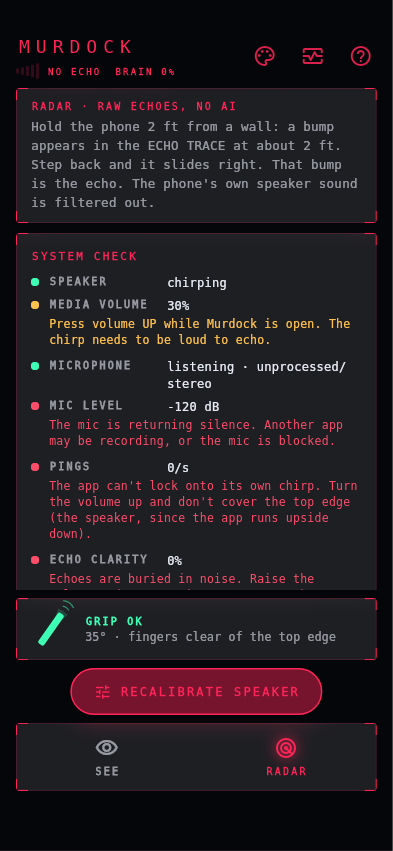
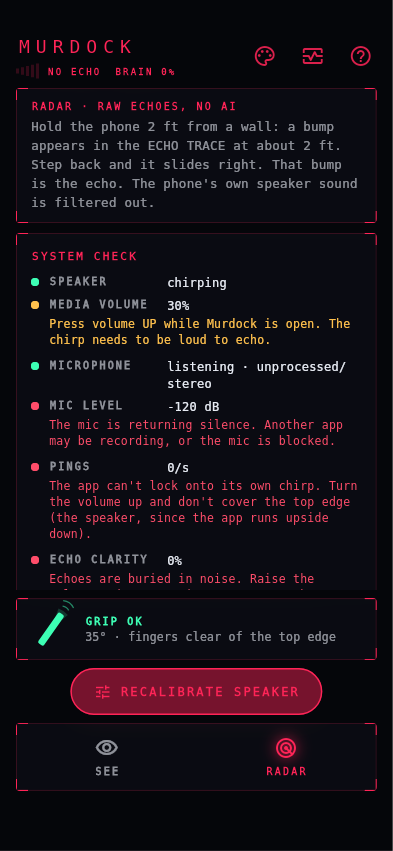
FINISH LEARNING mode
- Learning strip shows FINISH LEARNING whenever training is queued (also with
  camera assist off). It stops the speaker, mic and camera; the trainer then
  takes the brain thread in 250 ms bursts with no gaps for live inference until
  the queue is empty, saves, and the screen shows progress, steps/s and time
  left. RESUME (or STOP AND RESUME) restarts sonar and camera
- Top bar reads SONAR OFF while finishing; tab bar hidden
- Panels use dark smoked glass so text stays readable over the echo picture
- Screenshots: queued learning strip, finishing screen

Claude-Session: https://claude.ai/code/session_01FaaL1WKpQiBqvyPWN8qiJK

Changed region(s): [[0.1832, 0.8249, 0.8244, 0.886], [0.0916, 0.7027, 0.8244, 0.7333], [0.0611, 0.275, 0.0916, 0.3055]]

diff --git a/lib/home_page.dart b/lib/home_page.dart
@@ -67,6 +67,10 @@ class _HomePageState extends State<HomePage> with WidgetsBindingObserver {
   String _teacherBackend = '';
   bool _lastFrameLearned = false;
 
+  // FINISH LEARNING: sonar + camera off, the phone works through the training queue.
+  bool _finishing = false;
+  int _finishTotal = 0;
+
   // Grip: live tilt from the motion sensor, and the average tilt while learning (saved).
   double _tilt = kIdealTilt;
   double _roll = 0;
@@ -149,6 +153,7 @@ class _HomePageState extends State<HomePage> with WidgetsBindingObserver {
   void didChangeAppLifecycleState(AppLifecycleState state) {
     // The native side stops the speaker when the app is backgrounded; resume it here.
     if (state == AppLifecycleState.resumed) {
+      if (_finishing) return; // stay quiet until the user resumes
       _startSonar().then((_) => _syncCamera());
     } else if (state == AppLifecycleState.paused) {
       _stopCamera();
@@ -173,7 +178,7 @@ class _HomePageState extends State<HomePage> with WidgetsBindingObserver {
   // ───────────────────────────── camera + learning ─────────────────────────────
 
   /// The camera runs in SEE while camera assist is on (it also feeds continuous learning).
-  bool get _wantCamera => (_status?.teacherReady ?? false) && _mode == Mode.see && _assist;
+  bool get _wantCamera => !_finishing && (_status?.teacherReady ?? false) && _mode == Mode.see && _assist;
 
   Future<void> _syncCamera() async {
     if (!mounted) return;
@@ -274,8 +279,8 @@ class _HomePageState extends State<HomePage> with WidgetsBindingObserver {
         body: SafeArea(
           child: Column(children: [
             _topBar(),
-            Expanded(child: _blocker != null ? _centerCard(_blocker!) : _body()),
-            _navBar(),
+            Expanded(child: _blocker != null ? _centerCard(_blocker!) : _finishing ? _finishScreen() : _body()),
+            if (!_finishing) _navBar(),
           ]),
         ),
       );
@@ -284,8 +289,16 @@ class _HomePageState extends State<HomePage> with WidgetsBindingObserver {
 
   Widget _topBar() {
     final p = _palette;
-    final signal = _signal;
-    final signalText = signal > 0.6 ? 'ECHO STRONG' : signal > 0.3 ? 'ECHO OK' : signal > 0.08 ? 'ECHO WEAK' : 'NO ECHO';
+    final signal = _finishing ? 0.0 : _signal;
+    final signalText = _finishing
+        ? 'SONAR OFF'
+        : signal > 0.6
+            ? 'ECHO STRONG'
+            : signal > 0.3
+                ? 'ECHO OK'
+                : signal > 0.08
+                    ? 'ECHO WEAK'
+                    : 'NO ECHO';
     return Padding(
       padding: const EdgeInsets.fromLTRB(16, 8, 8, 0),
       child: Row(children: [
@@ -435,7 +448,7 @@ class _HomePageState extends State<HomePage> with WidgetsBindingObserver {
         right: 16,
         bottom: 8,
         child: Column(mainAxisSize: MainAxisSize.min, children: [
-          if (assisting) _learningStrip(),
+          if (assisting || (_status?.pendingSteps ?? 0) > 0) _learningStrip(),
           const SizedBox(height: 8),
           Row(children: [
             if (teacherReady)
@@ -539,7 +552,96 @@ class _HomePageState extends State<HomePage> with WidgetsBindingObserver {
           Text('With lights on, walk slowly past walls, doors, furniture and people.',
               style: Hud.body.copyWith(fontSize: 11)),
         ],
+        if (pending > 0) ...[
+          const SizedBox(height: 8),
+          Align(
+            alignment: Alignment.centerRight,
+            child: _chip(Icons.hourglass_bottom, 'FINISH LEARNING', _startFinish),
+          ),
+        ],
       ]),
+    );
+  }
+
+  // ───────────────────────────── finish learning ─────────────────────────────
+
+  Future<void> _startFinish() async {
+    final pending = _status?.pendingSteps ?? 0;
+    if (pending == 0) {
+      _toast('Nothing queued: it has caught up.');
+      return;
+    }
+    setState(() {
+      _finishing = true;
+      _finishTotal = pending;
+      _showCamera = false;
+    });
+    await _stopCamera();
+    await _sonar.finishLearning();
+  }
+
+  Future<void> _endFinish() async {
+    await _sonar.endFinishLearning();
+    setState(() => _finishing = false);
+    await _startSonar();
+    await _syncCamera();
+  }
+
+  Widget _finishScreen() {
+    final p = _palette;
+    final st = _status;
+    final pending = st?.pendingSteps ?? _finishTotal;
+    final done = pending == 0;
+    final progress = _finishTotal == 0 ? 1.0 : (1 - pending / _finishTotal).clamp(0.0, 1.0);
+    final rate = st?.stepsPerSec ?? 0;
+    String eta() {
+      if (rate < 1) return 'estimating…';
+      final s = (pending / rate).round();
+      return s < 60 ? '~$s s left' : '~${(s / 60).ceil()} min left';
+    }
+
+    return Center(
+      child: Padding(
+        padding: const EdgeInsets.all(20),
+        child: HudPanel(
+          palette: p,
+          padding: const EdgeInsets.all(22),
+          child: Column(mainAxisSize: MainAxisSize.min, children: [
+            Text(done ? 'LEARNING FINISHED' : 'FINISHING LEARNING', style: Hud.label(p.accent, size: 12)),
+            const SizedBox(height: 18),
+            ProgressRing(
+              value: progress,
+              palette: p,
+              size: 150,
+              center: '${(progress * 100).round()}%',
+              caption: done ? 'SAVED' : 'LEARNING',
+            ),
+            const SizedBox(height: 18),
+            Text(
+              done
+                  ? 'Everything it collected has been learned and saved.'
+                  : '$pending steps left · ${rate.round()} steps/s · ${eta()}',
+              textAlign: TextAlign.center,
+              style: Hud.body,
+            ),
+            const SizedBox(height: 10),
+            Text(
+              'Speaker, microphone and camera are off, so the phone spends all its effort learning from '
+              'what it already collected. Keep the app open; you can put the phone down.',
+              textAlign: TextAlign.center,
+              style: Hud.body.copyWith(fontSize: 12),
+            ),
+            const SizedBox(height: 20),
+            GlowButton(
+              label: done ? 'RESUME' : 'STOP AND RESUME',
+              icon: Icons.play_arrow,
+              filled: done,
+              palette: p,
+              onTap: _endFinish,
+            ),
+          ]),
+        ),
+      ),
     );
   }
 

diff --git a/tool/screenshots_test.dart b/tool/screenshots_test.dart
@@ -79,7 +79,7 @@ Map<String, Object> _stats({bool broken = false}) => {
       'directDb': -1.5,
     };
 
-void _mockNative({required int samples, bool broken = false, double tilt = 35, bool assist = false}) {
+void _mockNative({required int samples, bool broken = false, double tilt = 35, bool assist = false, int pending = 0}) {
   final messenger = TestDefaultBinaryMessengerBinding.instance.defaultBinaryMessenger;
   messenger.setMockMethodCallHandler(_method, (call) async => switch (call.method) {
         // Guide already seen; camera assist on or off (assistOff flag) per scenario.
@@ -94,6 +94,10 @@ void _mockNative({required int samples, bool broken = false, double tilt = 35, b
             'totalSamples': samples,
             'teacherReady': true,
             'samplesDir': '/sdcard/Android/data/com.murdock.murdock/files/samples',
+            'pendingSteps': pending,
+            'stepsPerSec': 120.0,
+            'teacherBackend': 'gpu',
+            'teacherMs': 42,
           },
         _ => null,
       });
@@ -122,7 +126,8 @@ void main() {
   setUpAll(_loadFonts);
 
   Future<void> shoot(WidgetTester tester, String name,
-      {required int samples, String? tab, bool broken = false, double tilt = 35, bool assist = false}) async {
+      {required int samples, String? tab, bool broken = false, double tilt = 35, bool assist = false, int pending = 0,
+      String? tapAfter}) async {
     tester.view.physicalSize = const Size(1080, 2340);
     tester.view.devicePixelRatio = 2.75;
     // A real phone's system bars: status bar on top, 3-button navigation at the bottom.
@@ -130,16 +135,25 @@ void main() {
     const bars = FakeViewPadding(top: 24 * 2.75, bottom: 48 * 2.75);
     tester.view.padding = bars;
     tester.view.viewPadding = bars;
-    _mockNative(samples: samples, broken: broken, tilt: tilt, assist: assist);
+    _mockNative(samples: samples, broken: broken, tilt: tilt, assist: assist, pending: pending);
     await tester.pumpWidget(const MurdockApp());
     await _settle(tester);
     if (tab != null) {
       await tester.tap(find.text(tab));
       await _settle(tester);
     }
+    if (tapAfter != null) {
+      await tester.tap(find.text(tapAfter));
+      await _settle(tester);
+    }
     // No camera in a headless test: drop the resulting "Camera failed" pop-up before capturing.
     tester.state<ScaffoldMessengerState>(find.byType(ScaffoldMessenger)).removeCurrentSnackBar();
     await tester.pump(const Duration(milliseconds: 500));
+    if (find.text('RADAR').evaluate().isEmpty) {
+      // FINISH LEARNING hides the tab bar.
+      await expectLater(find.byType(HomePage), matchesGoldenFile('../docs/screenshots/$name.png'));
+      return;
+    }
     // Nothing may overlap the SEE/RADAR tab bar, which must sit above the system bar.
     final nav = tester.getRect(find.ancestor(of: find.text('RADAR'), matching: find.byType(HudPanel)).first);
     final screen = tester.view.physicalSize / tester.view.devicePixelRatio;
@@ -157,7 +171,9 @@ void main() {
   testWidgets('radar (sonar not working)', (t) => shoot(t, 'radar_broken', samples: 0, broken: true, tab: 'RADAR'));
   testWidgets('see (untrained, top leaning toward you)', (t) => shoot(t, 'see_untrained', samples: 0, tilt: -15));
   testWidgets('see (trained)', (t) => shoot(t, 'see', samples: 1400));
-  testWidgets('see (camera assist on: most controls)', (t) => shoot(t, 'see_assist', samples: 300, assist: true));
+  testWidgets('see (camera assist on: most controls)',
+      (t) => shoot(t, 'see_assist', samples: 300, assist: true, pending: 8000));
+  testWidgets('finish learning', (t) => shoot(t, 'finish_learning', samples: 300, pending: 8000, tapAfter: 'FINISH LEARNING'));
   testWidgets('camera assist comparison', (tester) async {
     tester.view.physicalSize = const Size(1500, 700);
     tester.view.devicePixelRatio = 1.5;

diff --git a/android/app/src/main/kotlin/com/murdock/murdock/MainActivity.kt b/android/app/src/main/kotlin/com/murdock/murdock/MainActivity.kt
@@ -92,6 +92,17 @@ class MainActivity : FlutterActivity() {
             }
             "stop" -> { sonar?.stop(); result.success(null) }
             "calibrate" -> { sonar?.calibrate(); result.success(null) }
+            "finishLearning" -> {
+                // Stop listening (no new samples, no inference) and train flat out.
+                sonar?.stop()
+                finishing = true
+                result.success(null)
+            }
+            "endFinishLearning" -> {
+                finishing = false
+                submit(brainThread, "save") { brain?.save() }
+                result.success(null)
+            }
             "status" -> submit(brainThread, "status", result) {
                 val b = brain
                 val s = sonar
@@ -105,6 +116,8 @@ class MainActivity : FlutterActivity() {
                     "teacherReady" to teacherFile.exists(),
                     "samplesDir" to samplesDir.path,
                     "pendingSteps" to (b?.pendingSteps ?: 0),
+                    "stepsPerSec" to stepsPerSec,
+                    "finishing" to finishing,
                     "teacherBackend" to (teacher?.backend ?: ""),
                     "teacherMs" to (teacher?.lastMs ?: 0L).toInt(),
                 ))
@@ -187,7 +200,14 @@ class MainActivity : FlutterActivity() {
     // ── Continuous trainer ──────────────────────────────────────────────────────────────
     // Spends the brain's step budget in ~30 ms bursts on the brain thread, leaving gaps so
     // the live echo inference (also on that thread) stays smooth.
+    //
+    // FINISH LEARNING ("finishing"): sonar and camera are off, so the trainer takes the
+    // brain thread in long bursts with no gaps until the queue is empty, then saves.
     @Volatile private var trainerOn = false
+    @Volatile private var finishing = false
+    @Volatile private var stepsPerSec = 0.0
+    private var rateSteps = 0
+    private var rateFrom = System.nanoTime()
 
     private fun startTrainer() {
         if (trainerOn) return
@@ -198,9 +218,17 @@ class MainActivity : FlutterActivity() {
     private fun trainerTick() {
         if (!trainerOn) return
         submit(brainThread, "training") {
-            val steps = brain?.trainFor(TRAIN_BURST_MS) ?: 0
-            // Busy -> come back soon; idle (no budget) -> check again in a while.
-            main.postDelayed(::trainerTick, if (steps > 0) 5L else 250L)
+            val b = brain
+            val steps = b?.trainFor(if (finishing) FINISH_BURST_MS else TRAIN_BURST_MS) ?: 0
+            rateSteps += steps
+            val now = System.nanoTime()
+            if (now - rateFrom > 1_000_000_000L) {
+                stepsPerSec = rateSteps * 1e9 / (now - rateFrom)
+                rateSteps = 0; rateFrom = now
+            }
+            if (finishing && b != null && b.pendingSteps == 0 && steps > 0) b.save() // queue done
+            // Busy -> come back soon (immediately when finishing); idle -> check in a while.
+            main.postDelayed(::trainerTick, if (steps > 0) (if (finishing) 0L else 5L) else 250L)
         }
     }
 
@@ -317,6 +345,7 @@ class MainActivity : FlutterActivity() {
     companion object {
         private const val TAG = "Murdock"
         private const val TRAIN_BURST_MS = 30L
+        private const val FINISH_BURST_MS = 250L
         private const val PERMISSION_REQUEST_BASE = 4100
     }
 }

diff --git a/lib/sonar/sonar_channel.dart b/lib/sonar/sonar_channel.dart
@@ -108,7 +108,9 @@ class SonarStatus {
         samplesDir = m['samplesDir'] as String? ?? '',
         pendingSteps = m['pendingSteps'] as int? ?? 0,
         teacherBackend = m['teacherBackend'] as String? ?? '',
-        teacherMs = m['teacherMs'] as int? ?? 0;
+        teacherMs = m['teacherMs'] as int? ?? 0,
+        stepsPerSec = (m['stepsPerSec'] as num?)?.toDouble() ?? 0,
+        finishing = m['finishing'] as bool? ?? false;
 
   final bool stereo;
   final String source;
@@ -126,6 +128,10 @@ class SonarStatus {
   /// Where the camera depth teacher runs ("gpu"/"cpu", empty until first use) and how long a frame takes.
   final String teacherBackend;
   final int teacherMs;
+
+  /// Training speed over the last second, and whether FINISH LEARNING is running.
+  final double stepsPerSec;
+  final bool finishing;
 }
 
 class TeachResult {
@@ -183,6 +189,10 @@ class SonarChannel {
   Future<void> start() => _method.invokeMethod('start');
   /// Re-learn the speaker's own sound (~2 s). Hold the phone away from everything.
   Future<void> calibrate() => _method.invokeMethod('calibrate');
+
+  /// FINISH LEARNING: stop the sonar and spend all the effort on the training queue.
+  Future<void> finishLearning() => _method.invokeMethod('finishLearning');
+  Future<void> endFinishLearning() => _method.invokeMethod('endFinishLearning');
 
   Future<void> stop() => _method.invokeMethod('stop');
   Future<void> setTraining(bool on) => _method.invokeMethod('setTraining', on);

diff --git a/lib/ui/hud.dart b/lib/ui/hud.dart
@@ -8,7 +8,8 @@ import '../render/palette.dart';
 /// Shared look: black glass panels, thin neon strokes, corner brackets, mono caps.
 class Hud {
   static const bg = Color(0xFF05060A);
-  static const glass = Color(0x1AFFFFFF);
+  // Dark smoked glass: panels sit over the bright echo picture and must stay readable.
+  static const glass = Color(0xC70B0D14);
   static const text = Color(0xFFE8ECF4);
   static const dim = Color(0x99E8ECF4);
 
